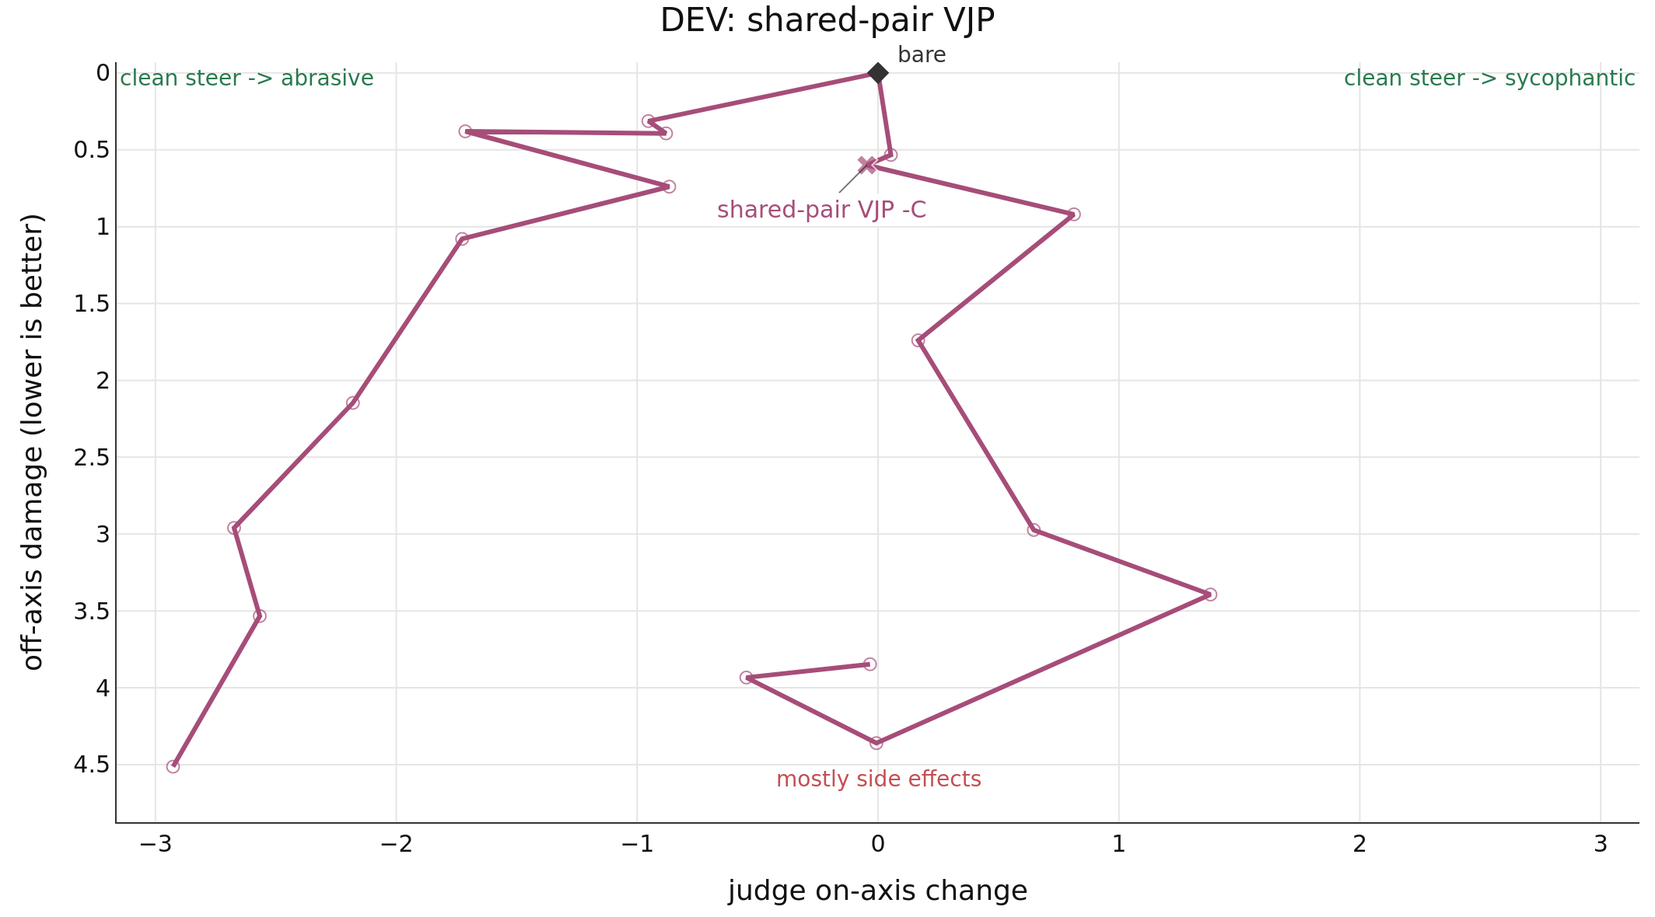
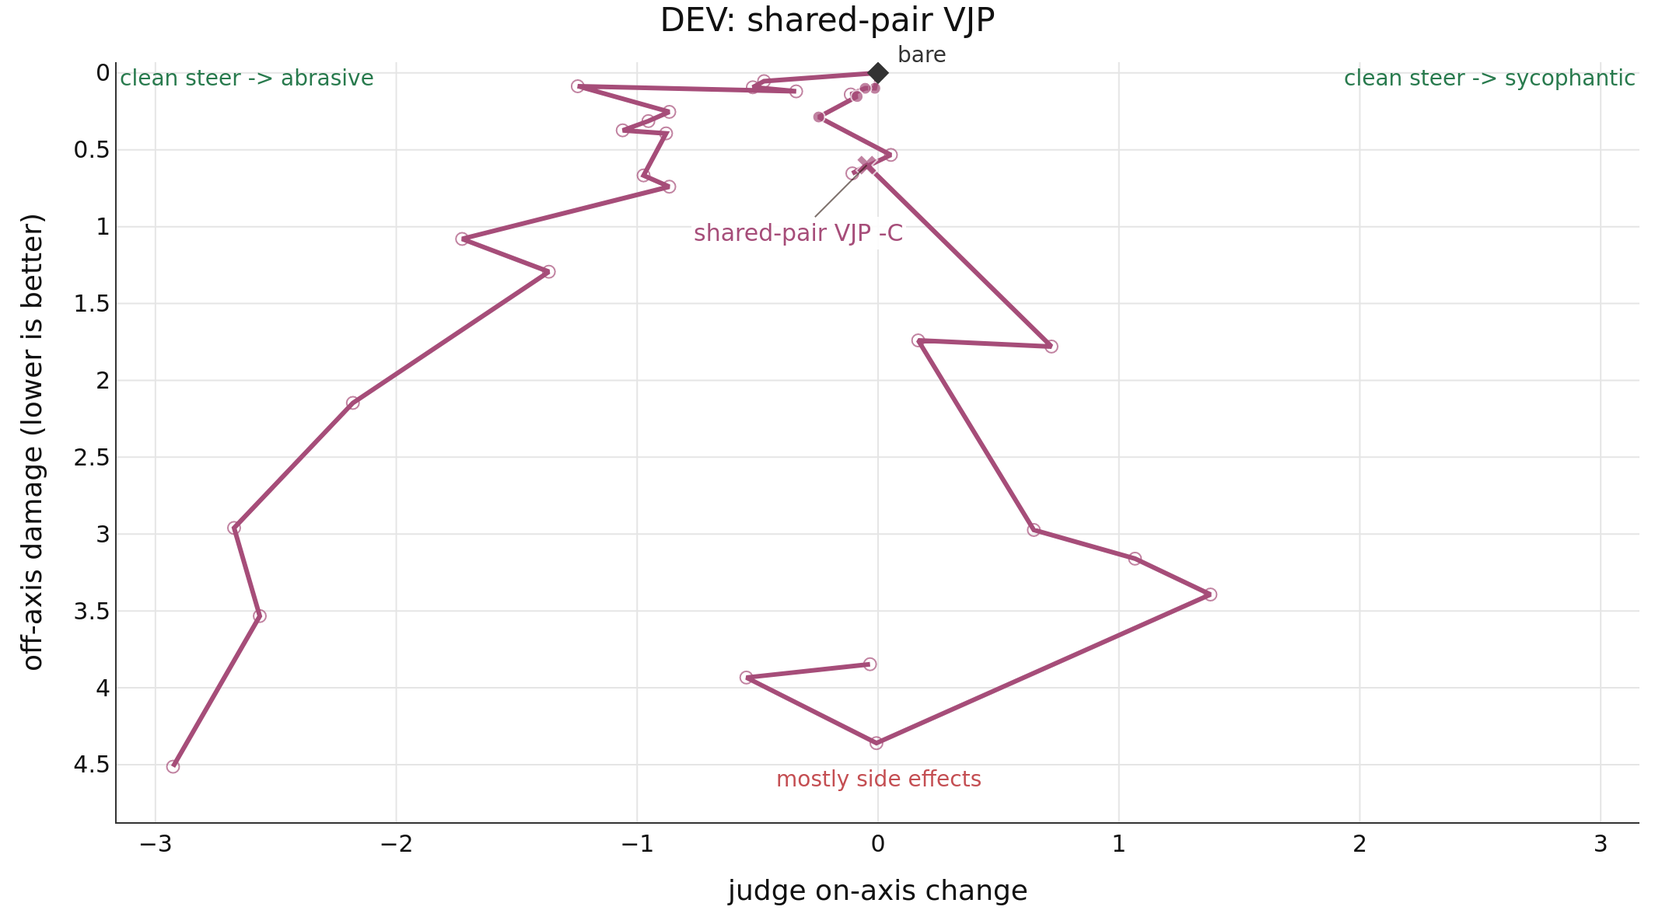
Close shared-pair DEV coverage gap

diff --git a/dev/mlp-up-shared-eb-formative-v1/index.html b/dev/mlp-up-shared-eb-formative-v1/index.html
@@ -1,2 +1,2 @@
 <!doctype html><meta charset='utf-8'><title>vjp-steering results</title><style>body{font:16px system-ui;max-width:1064px;margin:2rem auto;padding:0 1rem}.plotly-graph-div{width:100%!important}table{border-collapse:collapse;width:100%}th,td{padding:.35rem .7rem;border-bottom:1px solid #ccc}th{text-align:left}img{max-width:100%}</style><h1>Results</h1><p>DEV evidence for shared-pair VJP: 15 questions, orders=AB, passes=1. This output is separate from the primary publication result. Markers are evaluated doses; open markers were rejected; straight connectors show dose order, not interpolation. No accepted endpoint was confirmed for +C.</p><div style="height:590px; width:100%;">                        <script>window.PlotlyConfig = {MathJaxConfig: 'local'};</script>
-        <script charset="utf-8" src="https://cdn.plot.ly/plotly-3.7.0.min.js" integrity="sha256-jvTGqxNp8AGWEcvNLVuKr+8j5dGe9Yw51LQkmDH+IYA=" crossorigin="anonymous"></script>                <div id="dev-results-plot" class="plotly-graph-div" style="height:100%; width:100%;"></div>            <script>                window.PLOTLYENV=window.PLOTLYENV || {};                                if (document.getElementById("dev-results-plot")) {                    Plotly.newPlot(                        "dev-results-plot",                        [{"hovertemplate":"shared-pair VJP\u003cbr\u003e%{text}\u003cbr\u003eeffect=%{x:.3f}\u003cbr\u003edamage=%{y:.3f}\u003cextra\u003e\u003c\u002fextra\u003e","line":{"color":"#a64d79","shape":"linear","smoothing":0,"width":3},"marker":{"color":"#a64d79","size":[0,8,8,8,8,8,8,8,8,8],"symbol":["circle","circle-open","circle-open","circle-open","circle-open","circle-open","circle-open","circle-open","circle-open","circle-open"]},"mode":"lines+markers","showlegend":false,"text":["bare","C=17.7895 (rejected)","C=20.0469 (rejected)","C=22.3043 (rejected)","C=24.5617 (rejected)","C=26.8191 (rejected)","C=29.0764 (rejected)","C=31.3338 (rejected)","C=33.5912 (rejected)","C=35.8486 (rejected)"],"x":[0,-0.9533333333333333,-0.8800000000000001,-1.7133333333333334,-0.8666666666666667,-1.7266666666666666,-2.18,-2.6733333333333333,-2.566666666666667,-2.9266666666666667],"y":[0,0.3133333333333333,0.3933333333333333,0.38,0.74,1.0799999999999998,2.1466666666666665,2.96,3.533333333333333,4.513333333333333],"type":"scatter"},{"hovertemplate":"shared-pair VJP\u003cbr\u003e%{text}\u003cbr\u003eeffect=%{x:.3f}\u003cbr\u003edamage=%{y:.3f}\u003cextra\u003e\u003c\u002fextra\u003e","line":{"color":"#a64d79","shape":"linear","smoothing":0,"width":3},"marker":{"color":"#a64d79","size":[0,8,12,8,8,8,8,8,8,8],"symbol":["circle","circle-open","x","circle-open","circle-open","circle-open","circle-open","circle-open","circle-open","circle-open"]},"mode":"lines+markers","showlegend":false,"text":["bare","C=28.6019 (rejected)","C=32.2313","C=35.8607 (rejected)","C=39.4901 (rejected)","C=43.1195 (rejected)","C=46.7489 (rejected)","C=50.3783 (rejected)","C=54.0077 (rejected)","C=57.6371 (rejected)"],"x":[0,0.05333333333333338,-0.04666666666666665,0.8133333333333336,0.16666666666666682,0.6466666666666667,1.3800000000000001,-0.006666666666666465,-0.5466666666666665,-0.03333333333333319],"y":[0,0.5333333333333333,0.6,0.9199999999999999,1.74,2.973333333333333,3.393333333333333,4.359999999999999,3.933333333333333,3.8466666666666667],"type":"scatter"},{"hoverinfo":"skip","marker":{"color":"#333333","size":11,"symbol":"diamond"},"mode":"markers","showlegend":false,"x":[0],"y":[0],"type":"scatter"}],                        {"template":{"data":{"histogram2dcontour":[{"type":"histogram2dcontour","colorbar":{"outlinewidth":0,"ticks":""},"colorscale":[[0.0,"#0d0887"],[0.1111111111111111,"#46039f"],[0.2222222222222222,"#7201a8"],[0.3333333333333333,"#9c179e"],[0.4444444444444444,"#bd3786"],[0.5555555555555556,"#d8576b"],[0.6666666666666666,"#ed7953"],[0.7777777777777778,"#fb9f3a"],[0.8888888888888888,"#fdca26"],[1.0,"#f0f921"]]}],"choropleth":[{"type":"choropleth","colorbar":{"outlinewidth":0,"ticks":""}}],"histogram2d":[{"type":"histogram2d","colorbar":{"outlinewidth":0,"ticks":""},"colorscale":[[0.0,"#0d0887"],[0.1111111111111111,"#46039f"],[0.2222222222222222,"#7201a8"],[0.3333333333333333,"#9c179e"],[0.4444444444444444,"#bd3786"],[0.5555555555555556,"#d8576b"],[0.6666666666666666,"#ed7953"],[0.7777777777777778,"#fb9f3a"],[0.8888888888888888,"#fdca26"],[1.0,"#f0f921"]]}],"heatmap":[{"type":"heatmap","colorbar":{"outlinewidth":0,"ticks":""},"colorscale":[[0.0,"#0d0887"],[0.1111111111111111,"#46039f"],[0.2222222222222222,"#7201a8"],[0.3333333333333333,"#9c179e"],[0.4444444444444444,"#bd3786"],[0.5555555555555556,"#d8576b"],[0.6666666666666666,"#ed7953"],[0.7777777777777778,"#fb9f3a"],[0.8888888888888888,"#fdca26"],[1.0,"#f0f921"]]}],"contourcarpet":[{"type":"contourcarpet","colorbar":{"outlinewidth":0,"ticks":""}}],"contour":[{"type":"contour","colorbar":{"outlinewidth":0,"ticks":""},"colorscale":[[0.0,"#0d0887"],[0.1111111111111111,"#46039f"],[0.2222222222222222,"#7201a8"],[0.3333333333333333,"#9c179e"],[0.4444444444444444,"#bd3786"],[0.5555555555555556,"#d8576b"],[0.6666666666666666,"#ed7953"],[0.7777777777777778,"#fb9f3a"],[0.8888888888888888,"#fdca26"],[1.0,"#f0f921"]]}],"surface":[{"type":"surface","colorbar":{"outlinewidth":0,"ticks":""},"colorscale":[[0.0,"#0d0887"],[0.1111111111111111,"#46039f"],[0.2222222222222222,"#7201a8"],[0.3333333333333333,"#9c179e"],[0.4444444444444444,"#bd3786"],[0.5555555555555556,"#d8576b"],[0.6666666666666666,"#ed7953"],[0.7777777777777778,"#fb9f3a"],[0.8888888888888888,"#fdca26"],[1.0,"#f0f921"]]}],"mesh3d":[{"type":"mesh3d","colorbar":{"outlinewidth":0,"ticks":""}}],"scatter":[{"fillpattern":{"fillmode":"overlay","size":10,"solidity":0.2},"type":"scatter"}],"parcoords":[{"type":"parcoords","line":{"colorbar":{"outlinewidth":0,"ticks":""}}}],"scatterpolargl":[{"type":"scatterpolargl","marker":{"colorbar":{"outlinewidth":0,"ticks":""}}}],"bar":[{"error_x":{"color":"#2a3f5f"},"error_y":{"color":"#2a3f5f"},"marker":{"line":{"color":"#E5ECF6","width":0.5},"pattern":{"fillmode":"overlay","size":10,"solidity":0.2}},"type":"bar"}],"scattergeo":[{"type":"scattergeo","marker":{"colorbar":{"outlinewidth":0,"ticks":""}}}],"scatterpolar":[{"type":"scatterpolar","marker":{"colorbar":{"outlinewidth":0,"ticks":""}}}],"histogram":[{"marker":{"pattern":{"fillmode":"overlay","size":10,"solidity":0.2}},"type":"histogram"}],"scattergl":[{"type":"scattergl","marker":{"colorbar":{"outlinewidth":0,"ticks":""}}}],"scatter3d":[{"type":"scatter3d","line":{"colorbar":{"outlinewidth":0,"ticks":""}},"marker":{"colorbar":{"outlinewidth":0,"ticks":""}}}],"scattermap":[{"type":"scattermap","marker":{"colorbar":{"outlinewidth":0,"ticks":""}}}],"scattermapbox":[{"type":"scattermapbox","marker":{"colorbar":{"outlinewidth":0,"ticks":""}}}],"scatterternary":[{"type":"scatterternary","marker":{"colorbar":{"outlinewidth":0,"ticks":""}}}],"scattercarpet":[{"type":"scattercarpet","marker":{"colorbar":{"outlinewidth":0,"ticks":""}}}],"carpet":[{"aaxis":{"endlinecolor":"#2a3f5f","gridcolor":"white","linecolor":"white","minorgridcolor":"white","startlinecolor":"#2a3f5f"},"baxis":{"endlinecolor":"#2a3f5f","gridcolor":"white","linecolor":"white","minorgridcolor":"white","startlinecolor":"#2a3f5f"},"type":"carpet"}],"table":[{"cells":{"fill":{"color":"#EBF0F8"},"line":{"color":"white"}},"header":{"fill":{"color":"#C8D4E3"},"line":{"color":"white"}},"type":"table"}],"barpolar":[{"marker":{"line":{"color":"#E5ECF6","width":0.5},"pattern":{"fillmode":"overlay","size":10,"solidity":0.2}},"type":"barpolar"}],"pie":[{"automargin":true,"type":"pie"}]},"layout":{"autotypenumbers":"strict","colorway":["#636efa","#EF553B","#00cc96","#ab63fa","#FFA15A","#19d3f3","#FF6692","#B6E880","#FF97FF","#FECB52"],"font":{"color":"#2a3f5f"},"hovermode":"closest","hoverlabel":{"align":"left"},"paper_bgcolor":"white","plot_bgcolor":"#E5ECF6","polar":{"bgcolor":"#E5ECF6","angularaxis":{"gridcolor":"white","linecolor":"white","ticks":""},"radialaxis":{"gridcolor":"white","linecolor":"white","ticks":""}},"ternary":{"bgcolor":"#E5ECF6","aaxis":{"gridcolor":"white","linecolor":"white","ticks":""},"baxis":{"gridcolor":"white","linecolor":"white","ticks":""},"caxis":{"gridcolor":"white","linecolor":"white","ticks":""}},"coloraxis":{"colorbar":{"outlinewidth":0,"ticks":""}},"colorscale":{"sequential":[[0.0,"#0d0887"],[0.1111111111111111,"#46039f"],[0.2222222222222222,"#7201a8"],[0.3333333333333333,"#9c179e"],[0.4444444444444444,"#bd3786"],[0.5555555555555556,"#d8576b"],[0.6666666666666666,"#ed7953"],[0.7777777777777778,"#fb9f3a"],[0.8888888888888888,"#fdca26"],[1.0,"#f0f921"]],"sequentialminus":[[0.0,"#0d0887"],[0.1111111111111111,"#46039f"],[0.2222222222222222,"#7201a8"],[0.3333333333333333,"#9c179e"],[0.4444444444444444,"#bd3786"],[0.5555555555555556,"#d8576b"],[0.6666666666666666,"#ed7953"],[0.7777777777777778,"#fb9f3a"],[0.8888888888888888,"#fdca26"],[1.0,"#f0f921"]],"diverging":[[0,"#8e0152"],[0.1,"#c51b7d"],[0.2,"#de77ae"],[0.3,"#f1b6da"],[0.4,"#fde0ef"],[0.5,"#f7f7f7"],[0.6,"#e6f5d0"],[0.7,"#b8e186"],[0.8,"#7fbc41"],[0.9,"#4d9221"],[1,"#276419"]]},"xaxis":{"gridcolor":"white","linecolor":"white","ticks":"","title":{"standoff":15},"zerolinecolor":"white","automargin":true,"zerolinewidth":2},"yaxis":{"gridcolor":"white","linecolor":"white","ticks":"","title":{"standoff":15},"zerolinecolor":"white","automargin":true,"zerolinewidth":2},"scene":{"xaxis":{"backgroundcolor":"#E5ECF6","gridcolor":"white","linecolor":"white","showbackground":true,"ticks":"","zerolinecolor":"white","gridwidth":2},"yaxis":{"backgroundcolor":"#E5ECF6","gridcolor":"white","linecolor":"white","showbackground":true,"ticks":"","zerolinecolor":"white","gridwidth":2},"zaxis":{"backgroundcolor":"#E5ECF6","gridcolor":"white","linecolor":"white","showbackground":true,"ticks":"","zerolinecolor":"white","gridwidth":2}},"shapedefaults":{"line":{"color":"#2a3f5f"}},"annotationdefaults":{"arrowcolor":"#2a3f5f","arrowhead":0,"arrowwidth":1},"geo":{"bgcolor":"white","landcolor":"#E5ECF6","subunitcolor":"white","showland":true,"showlakes":true,"lakecolor":"white"},"title":{"x":0.05},"mapbox":{"style":"light"}}},"annotations":[{"font":{"color":"#333333","size":14},"showarrow":false,"text":"bare","x":0,"xshift":28,"y":0,"yshift":12},{"align":"center","arrowcolor":"rgba(45,24,16,0.6)","arrowhead":0,"arrowwidth":1,"ax":-28.284271247461902,"axref":"pixel","ay":28.284271247461902,"ayref":"pixel","bgcolor":"rgba(255,255,255,0.9)","font":{"color":"#a64d79","size":15},"showarrow":true,"text":"shared-pair VJP -C","x":-0.04666666666666665,"y":0.6},{"font":{"color":"#287a4d","size":14},"showarrow":false,"text":"clean steer -\u003e abrasive","x":0,"xanchor":"left","xref":"paper","y":1,"yref":"paper"},{"font":{"color":"#287a4d","size":14},"showarrow":false,"text":"clean steer -\u003e sycophantic","x":1,"xanchor":"right","xref":"paper","y":1,"yref":"paper"},{"font":{"color":"#c44e52","size":14},"showarrow":false,"text":"mostly side effects","x":0.5,"xref":"paper","y":0,"yref":"paper","yshift":18}],"title":{"text":"DEV: shared-pair VJP","x":0.5,"xanchor":"center"},"margin":{"l":75,"r":10,"t":40,"b":58},"font":{"color":"#111","size":15},"xaxis":{"title":{"text":"judge on-axis change"},"range":[-3.1608000000000005,3.1608000000000005],"showline":true,"linecolor":"#333333","gridcolor":"#e5e5e5","zeroline":false},"yaxis":{"title":{"text":"off-axis damage (lower is better)"},"range":[4.8744,-0.07],"showline":true,"linecolor":"#333333","gridcolor":"#e5e5e5","zeroline":false},"height":590,"plot_bgcolor":"white","paper_bgcolor":"white","showlegend":false},                        {"responsive": true}                    )                };            </script>        </div><table><thead><tr><th>method</th><th>score↑</th><th>-C on-axis↑</th><th>-C damage↓</th><th>+C on-axis↑</th><th>+C damage↓</th><th>seeds</th><th>N</th><th>rejected↓</th></tr></thead><tbody><tr><td>vjp_mlp_up_shared_eb</td><td>—</td><td><strong>0.047</strong></td><td><strong>0.600</strong></td><td>not confirmed</td><td>—</td><td>1</td><td>18</td><td>17</td></tr></tbody></table>
+        <script charset="utf-8" src="https://cdn.plot.ly/plotly-3.7.0.min.js" integrity="sha256-jvTGqxNp8AGWEcvNLVuKr+8j5dGe9Yw51LQkmDH+IYA=" crossorigin="anonymous"></script>                <div id="dev-results-plot" class="plotly-graph-div" style="height:100%; width:100%;"></div>            <script>                window.PLOTLYENV=window.PLOTLYENV || {};                                if (document.getElementById("dev-results-plot")) {                    Plotly.newPlot(                        "dev-results-plot",                        [{"hovertemplate":"shared-pair VJP\u003cbr\u003e%{text}\u003cbr\u003eeffect=%{x:.3f}\u003cbr\u003edamage=%{y:.3f}\u003cextra\u003e\u003c\u002fextra\u003e","line":{"color":"#a64d79","shape":"linear","smoothing":0,"width":3},"marker":{"color":"#a64d79","size":[0,8,8,8,8,8,8,8,8,8,8,8,8,8,8,8,8],"symbol":["circle","circle-open","circle-open","circle-open","circle-open","circle-open","circle-open","circle-open","circle-open","circle-open","circle-open","circle-open","circle-open","circle-open","circle-open","circle-open","circle-open"]},"mode":"lines+markers","showlegend":false,"text":["bare","C=1 (rejected)","C=2 (rejected)","C=4 (rejected)","C=8 (rejected)","C=16 (rejected)","C=17.7895 (rejected)","C=19.8697 (rejected)","C=20.0469 (rejected)","C=23.0604 (rejected)","C=24.5617 (rejected)","C=26.8191 (rejected)","C=26.9538 (rejected)","C=29.0764 (rejected)","C=31.3338 (rejected)","C=33.5912 (rejected)","C=35.8486 (rejected)"],"x":[0,-0.4733333333333334,-0.52,-0.33999999999999997,-1.2466666666666668,-0.8666666666666667,-0.9533333333333333,-1.0599999999999998,-0.8800000000000001,-0.9733333333333334,-0.8666666666666667,-1.7266666666666666,-1.3666666666666667,-2.18,-2.6733333333333333,-2.566666666666667,-2.9266666666666667],"y":[0,0.05333333333333333,0.09333333333333334,0.12000000000000001,0.08666666666666667,0.2533333333333333,0.3133333333333333,0.3733333333333333,0.3933333333333333,0.6666666666666667,0.74,1.0799999999999998,1.2933333333333332,2.1466666666666665,2.96,3.533333333333333,4.513333333333333],"type":"scatter"},{"hovertemplate":"shared-pair VJP\u003cbr\u003e%{text}\u003cbr\u003eeffect=%{x:.3f}\u003cbr\u003edamage=%{y:.3f}\u003cextra\u003e\u003c\u002fextra\u003e","line":{"color":"#a64d79","shape":"linear","smoothing":0,"width":3},"marker":{"color":"#a64d79","size":[0,8,8,8,8,8,8,8,12,8,8,8,8,8,8,8,8],"symbol":["circle","circle","circle","circle-open","circle","circle","circle-open","circle-open","x","circle-open","circle-open","circle-open","circle-open","circle-open","circle-open","circle-open","circle-open"]},"mode":"lines+markers","showlegend":false,"text":["bare","C=1","C=2","C=4 (rejected)","C=8","C=16","C=28.6019 (rejected)","C=32 (rejected)","C=32.2313","C=38.0546 (rejected)","C=39.4901 (rejected)","C=43.1195 (rejected)","C=43.3362 (rejected)","C=46.7489 (rejected)","C=50.3783 (rejected)","C=54.0077 (rejected)","C=57.6371 (rejected)"],"x":[0,-0.013333333333333256,-0.05333333333333326,-0.11333333333333322,-0.08666666666666646,-0.24666666666666653,0.05333333333333338,-0.10666666666666653,-0.04666666666666665,0.7200000000000002,0.16666666666666682,0.6466666666666667,1.0666666666666667,1.3800000000000001,-0.006666666666666465,-0.5466666666666665,-0.03333333333333319],"y":[0,0.09999999999999998,0.1,0.14000000000000007,0.15333333333333335,0.2866666666666666,0.5333333333333333,0.6533333333333333,0.6,1.78,1.74,2.973333333333333,3.1599999999999997,3.393333333333333,4.359999999999999,3.933333333333333,3.8466666666666667],"type":"scatter"},{"hoverinfo":"skip","marker":{"color":"#333333","size":11,"symbol":"diamond"},"mode":"markers","showlegend":false,"x":[0],"y":[0],"type":"scatter"}],                        {"template":{"data":{"histogram2dcontour":[{"type":"histogram2dcontour","colorbar":{"outlinewidth":0,"ticks":""},"colorscale":[[0.0,"#0d0887"],[0.1111111111111111,"#46039f"],[0.2222222222222222,"#7201a8"],[0.3333333333333333,"#9c179e"],[0.4444444444444444,"#bd3786"],[0.5555555555555556,"#d8576b"],[0.6666666666666666,"#ed7953"],[0.7777777777777778,"#fb9f3a"],[0.8888888888888888,"#fdca26"],[1.0,"#f0f921"]]}],"choropleth":[{"type":"choropleth","colorbar":{"outlinewidth":0,"ticks":""}}],"histogram2d":[{"type":"histogram2d","colorbar":{"outlinewidth":0,"ticks":""},"colorscale":[[0.0,"#0d0887"],[0.1111111111111111,"#46039f"],[0.2222222222222222,"#7201a8"],[0.3333333333333333,"#9c179e"],[0.4444444444444444,"#bd3786"],[0.5555555555555556,"#d8576b"],[0.6666666666666666,"#ed7953"],[0.7777777777777778,"#fb9f3a"],[0.8888888888888888,"#fdca26"],[1.0,"#f0f921"]]}],"heatmap":[{"type":"heatmap","colorbar":{"outlinewidth":0,"ticks":""},"colorscale":[[0.0,"#0d0887"],[0.1111111111111111,"#46039f"],[0.2222222222222222,"#7201a8"],[0.3333333333333333,"#9c179e"],[0.4444444444444444,"#bd3786"],[0.5555555555555556,"#d8576b"],[0.6666666666666666,"#ed7953"],[0.7777777777777778,"#fb9f3a"],[0.8888888888888888,"#fdca26"],[1.0,"#f0f921"]]}],"contourcarpet":[{"type":"contourcarpet","colorbar":{"outlinewidth":0,"ticks":""}}],"contour":[{"type":"contour","colorbar":{"outlinewidth":0,"ticks":""},"colorscale":[[0.0,"#0d0887"],[0.1111111111111111,"#46039f"],[0.2222222222222222,"#7201a8"],[0.3333333333333333,"#9c179e"],[0.4444444444444444,"#bd3786"],[0.5555555555555556,"#d8576b"],[0.6666666666666666,"#ed7953"],[0.7777777777777778,"#fb9f3a"],[0.8888888888888888,"#fdca26"],[1.0,"#f0f921"]]}],"surface":[{"type":"surface","colorbar":{"outlinewidth":0,"ticks":""},"colorscale":[[0.0,"#0d0887"],[0.1111111111111111,"#46039f"],[0.2222222222222222,"#7201a8"],[0.3333333333333333,"#9c179e"],[0.4444444444444444,"#bd3786"],[0.5555555555555556,"#d8576b"],[0.6666666666666666,"#ed7953"],[0.7777777777777778,"#fb9f3a"],[0.8888888888888888,"#fdca26"],[1.0,"#f0f921"]]}],"mesh3d":[{"type":"mesh3d","colorbar":{"outlinewidth":0,"ticks":""}}],"scatter":[{"fillpattern":{"fillmode":"overlay","size":10,"solidity":0.2},"type":"scatter"}],"parcoords":[{"type":"parcoords","line":{"colorbar":{"outlinewidth":0,"ticks":""}}}],"scatterpolargl":[{"type":"scatterpolargl","marker":{"colorbar":{"outlinewidth":0,"ticks":""}}}],"bar":[{"error_x":{"color":"#2a3f5f"},"error_y":{"color":"#2a3f5f"},"marker":{"line":{"color":"#E5ECF6","width":0.5},"pattern":{"fillmode":"overlay","size":10,"solidity":0.2}},"type":"bar"}],"scattergeo":[{"type":"scattergeo","marker":{"colorbar":{"outlinewidth":0,"ticks":""}}}],"scatterpolar":[{"type":"scatterpolar","marker":{"colorbar":{"outlinewidth":0,"ticks":""}}}],"histogram":[{"marker":{"pattern":{"fillmode":"overlay","size":10,"solidity":0.2}},"type":"histogram"}],"scattergl":[{"type":"scattergl","marker":{"colorbar":{"outlinewidth":0,"ticks":""}}}],"scatter3d":[{"type":"scatter3d","line":{"colorbar":{"outlinewidth":0,"ticks":""}},"marker":{"colorbar":{"outlinewidth":0,"ticks":""}}}],"scattermap":[{"type":"scattermap","marker":{"colorbar":{"outlinewidth":0,"ticks":""}}}],"scattermapbox":[{"type":"scattermapbox","marker":{"colorbar":{"outlinewidth":0,"ticks":""}}}],"scatterternary":[{"type":"scatterternary","marker":{"colorbar":{"outlinewidth":0,"ticks":""}}}],"scattercarpet":[{"type":"scattercarpet","marker":{"colorbar":{"outlinewidth":0,"ticks":""}}}],"carpet":[{"aaxis":{"endlinecolor":"#2a3f5f","gridcolor":"white","linecolor":"white","minorgridcolor":"white","startlinecolor":"#2a3f5f"},"baxis":{"endlinecolor":"#2a3f5f","gridcolor":"white","linecolor":"white","minorgridcolor":"white","startlinecolor":"#2a3f5f"},"type":"carpet"}],"table":[{"cells":{"fill":{"color":"#EBF0F8"},"line":{"color":"white"}},"header":{"fill":{"color":"#C8D4E3"},"line":{"color":"white"}},"type":"table"}],"barpolar":[{"marker":{"line":{"color":"#E5ECF6","width":0.5},"pattern":{"fillmode":"overlay","size":10,"solidity":0.2}},"type":"barpolar"}],"pie":[{"automargin":true,"type":"pie"}]},"layout":{"autotypenumbers":"strict","colorway":["#636efa","#EF553B","#00cc96","#ab63fa","#FFA15A","#19d3f3","#FF6692","#B6E880","#FF97FF","#FECB52"],"font":{"color":"#2a3f5f"},"hovermode":"closest","hoverlabel":{"align":"left"},"paper_bgcolor":"white","plot_bgcolor":"#E5ECF6","polar":{"bgcolor":"#E5ECF6","angularaxis":{"gridcolor":"white","linecolor":"white","ticks":""},"radialaxis":{"gridcolor":"white","linecolor":"white","ticks":""}},"ternary":{"bgcolor":"#E5ECF6","aaxis":{"gridcolor":"white","linecolor":"white","ticks":""},"baxis":{"gridcolor":"white","linecolor":"white","ticks":""},"caxis":{"gridcolor":"white","linecolor":"white","ticks":""}},"coloraxis":{"colorbar":{"outlinewidth":0,"ticks":""}},"colorscale":{"sequential":[[0.0,"#0d0887"],[0.1111111111111111,"#46039f"],[0.2222222222222222,"#7201a8"],[0.3333333333333333,"#9c179e"],[0.4444444444444444,"#bd3786"],[0.5555555555555556,"#d8576b"],[0.6666666666666666,"#ed7953"],[0.7777777777777778,"#fb9f3a"],[0.8888888888888888,"#fdca26"],[1.0,"#f0f921"]],"sequentialminus":[[0.0,"#0d0887"],[0.1111111111111111,"#46039f"],[0.2222222222222222,"#7201a8"],[0.3333333333333333,"#9c179e"],[0.4444444444444444,"#bd3786"],[0.5555555555555556,"#d8576b"],[0.6666666666666666,"#ed7953"],[0.7777777777777778,"#fb9f3a"],[0.8888888888888888,"#fdca26"],[1.0,"#f0f921"]],"diverging":[[0,"#8e0152"],[0.1,"#c51b7d"],[0.2,"#de77ae"],[0.3,"#f1b6da"],[0.4,"#fde0ef"],[0.5,"#f7f7f7"],[0.6,"#e6f5d0"],[0.7,"#b8e186"],[0.8,"#7fbc41"],[0.9,"#4d9221"],[1,"#276419"]]},"xaxis":{"gridcolor":"white","linecolor":"white","ticks":"","title":{"standoff":15},"zerolinecolor":"white","automargin":true,"zerolinewidth":2},"yaxis":{"gridcolor":"white","linecolor":"white","ticks":"","title":{"standoff":15},"zerolinecolor":"white","automargin":true,"zerolinewidth":2},"scene":{"xaxis":{"backgroundcolor":"#E5ECF6","gridcolor":"white","linecolor":"white","showbackground":true,"ticks":"","zerolinecolor":"white","gridwidth":2},"yaxis":{"backgroundcolor":"#E5ECF6","gridcolor":"white","linecolor":"white","showbackground":true,"ticks":"","zerolinecolor":"white","gridwidth":2},"zaxis":{"backgroundcolor":"#E5ECF6","gridcolor":"white","linecolor":"white","showbackground":true,"ticks":"","zerolinecolor":"white","gridwidth":2}},"shapedefaults":{"line":{"color":"#2a3f5f"}},"annotationdefaults":{"arrowcolor":"#2a3f5f","arrowhead":0,"arrowwidth":1},"geo":{"bgcolor":"white","landcolor":"#E5ECF6","subunitcolor":"white","showland":true,"showlakes":true,"lakecolor":"white"},"title":{"x":0.05},"mapbox":{"style":"light"}}},"annotations":[{"font":{"color":"#333333","size":14},"showarrow":false,"text":"bare","x":0,"xshift":28,"y":0,"yshift":12},{"align":"center","arrowcolor":"rgba(45,24,16,0.6)","arrowhead":0,"arrowwidth":1,"ax":-43.84062043356596,"axref":"pixel","ay":43.84062043356596,"ayref":"pixel","bgcolor":"rgba(255,255,255,0.9)","font":{"color":"#a64d79","size":15},"showarrow":true,"text":"shared-pair VJP -C","x":-0.04666666666666665,"y":0.6},{"font":{"color":"#287a4d","size":14},"showarrow":false,"text":"clean steer -\u003e abrasive","x":0,"xanchor":"left","xref":"paper","y":1,"yref":"paper"},{"font":{"color":"#287a4d","size":14},"showarrow":false,"text":"clean steer -\u003e sycophantic","x":1,"xanchor":"right","xref":"paper","y":1,"yref":"paper"},{"font":{"color":"#c44e52","size":14},"showarrow":false,"text":"mostly side effects","x":0.5,"xref":"paper","y":0,"yref":"paper","yshift":18}],"title":{"text":"DEV: shared-pair VJP","x":0.5,"xanchor":"center"},"margin":{"l":75,"r":10,"t":40,"b":58},"font":{"color":"#111","size":15},"xaxis":{"title":{"text":"judge on-axis change"},"range":[-3.1608000000000005,3.1608000000000005],"showline":true,"linecolor":"#333333","gridcolor":"#e5e5e5","zeroline":false},"yaxis":{"title":{"text":"off-axis damage (lower is better)"},"range":[4.8744,-0.07],"showline":true,"linecolor":"#333333","gridcolor":"#e5e5e5","zeroline":false},"height":590,"plot_bgcolor":"white","paper_bgcolor":"white","showlegend":false},                        {"responsive": true}                    )                };            </script>        </div><table><thead><tr><th>method</th><th>score↑</th><th>-C on-axis↑</th><th>-C damage↓</th><th>+C on-axis↑</th><th>+C damage↓</th><th>seeds</th><th>N</th><th>rejected↓</th></tr></thead><tbody><tr><td>vjp_mlp_up_shared_eb</td><td>—</td><td><strong>0.047</strong></td><td><strong>0.600</strong></td><td>not confirmed</td><td>—</td><td>1</td><td>34</td><td>29</td></tr></tbody></table>

diff --git a/dev/mlp-up-shared-eb-formative-v1/index.md b/dev/mlp-up-shared-eb-formative-v1/index.md
@@ -8,4 +8,4 @@ Markers are evaluated doses; open markers were rejected; straight connectors sho
 
 | method | score↑ | -C on-axis↑ | -C damage↓ | +C on-axis↑ | +C damage↓ | seeds | N | rejected↓ |
 | --- | --- | --- | --- | --- | --- | --- | --- | --- |
-| vjp_mlp_up_shared_eb | — | **0.047** | **0.600** | not confirmed | — | 1 | 18 | 17 |
+| vjp_mlp_up_shared_eb | — | **0.047** | **0.600** | not confirmed | — | 1 | 34 | 29 |
